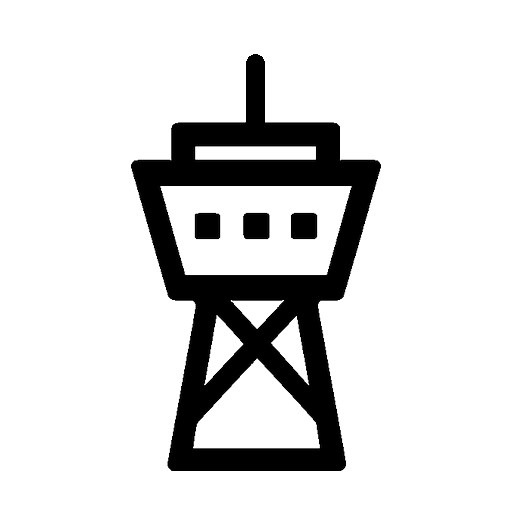
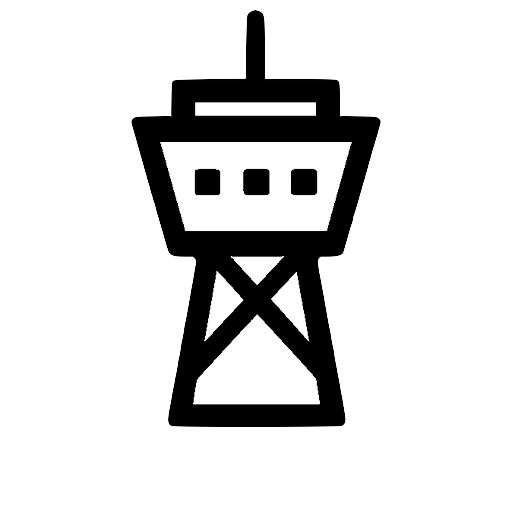
Updated Walkie Talkie image

Changed region(s): [[0.25, 0.1562, 0.75, 0.9375], [0.4688, 0.0, 0.5312, 0.125]]

diff --git a/src/pytrain/gui/engine_gui.py b/src/pytrain/gui/engine_gui.py
@@ -91,7 +91,7 @@ ENGINE_OPS_LAYOUT = [
     ],
     [
         ("VOLUME_DOWN", "vol-down.jpg"),
-        ("TOWER_CHATTER", "tower.png", "", "Tower..."),
+        ("TOWER_CHATTER", "tower.jpg", "", "Tower..."),
         [("RPM_DOWN", "rpm-down.jpg", "", "", "d"), ("WATER_INJECTOR, NUMBER_5", "water-inject.jpg", "", "", "s")],
         ("RING_BELL", "bell.jpg"),
     ],
